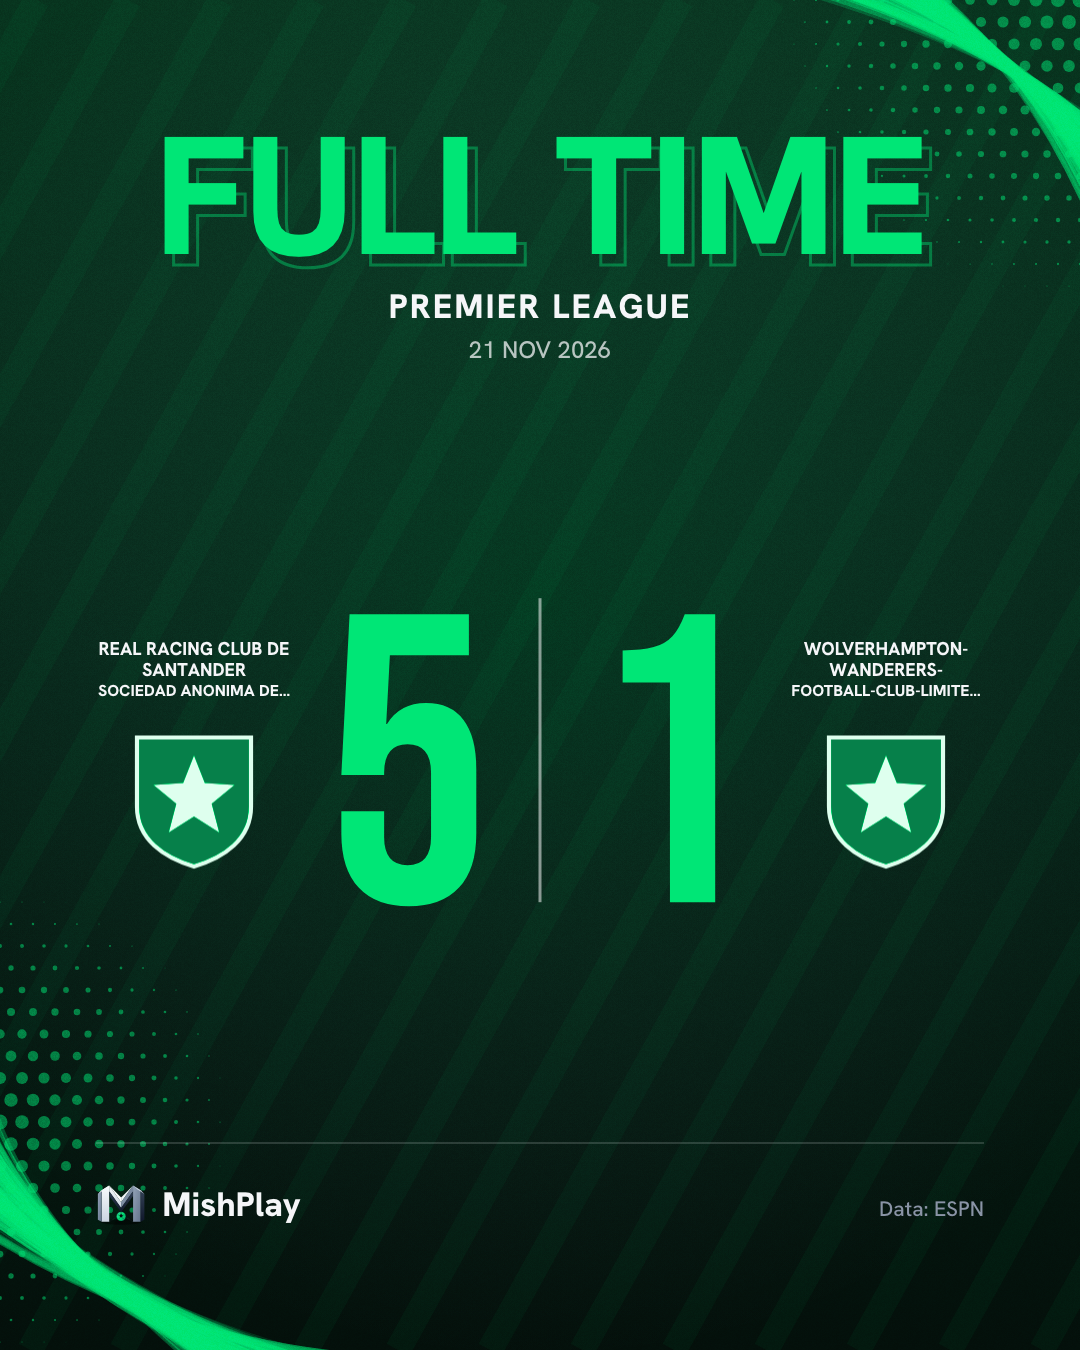
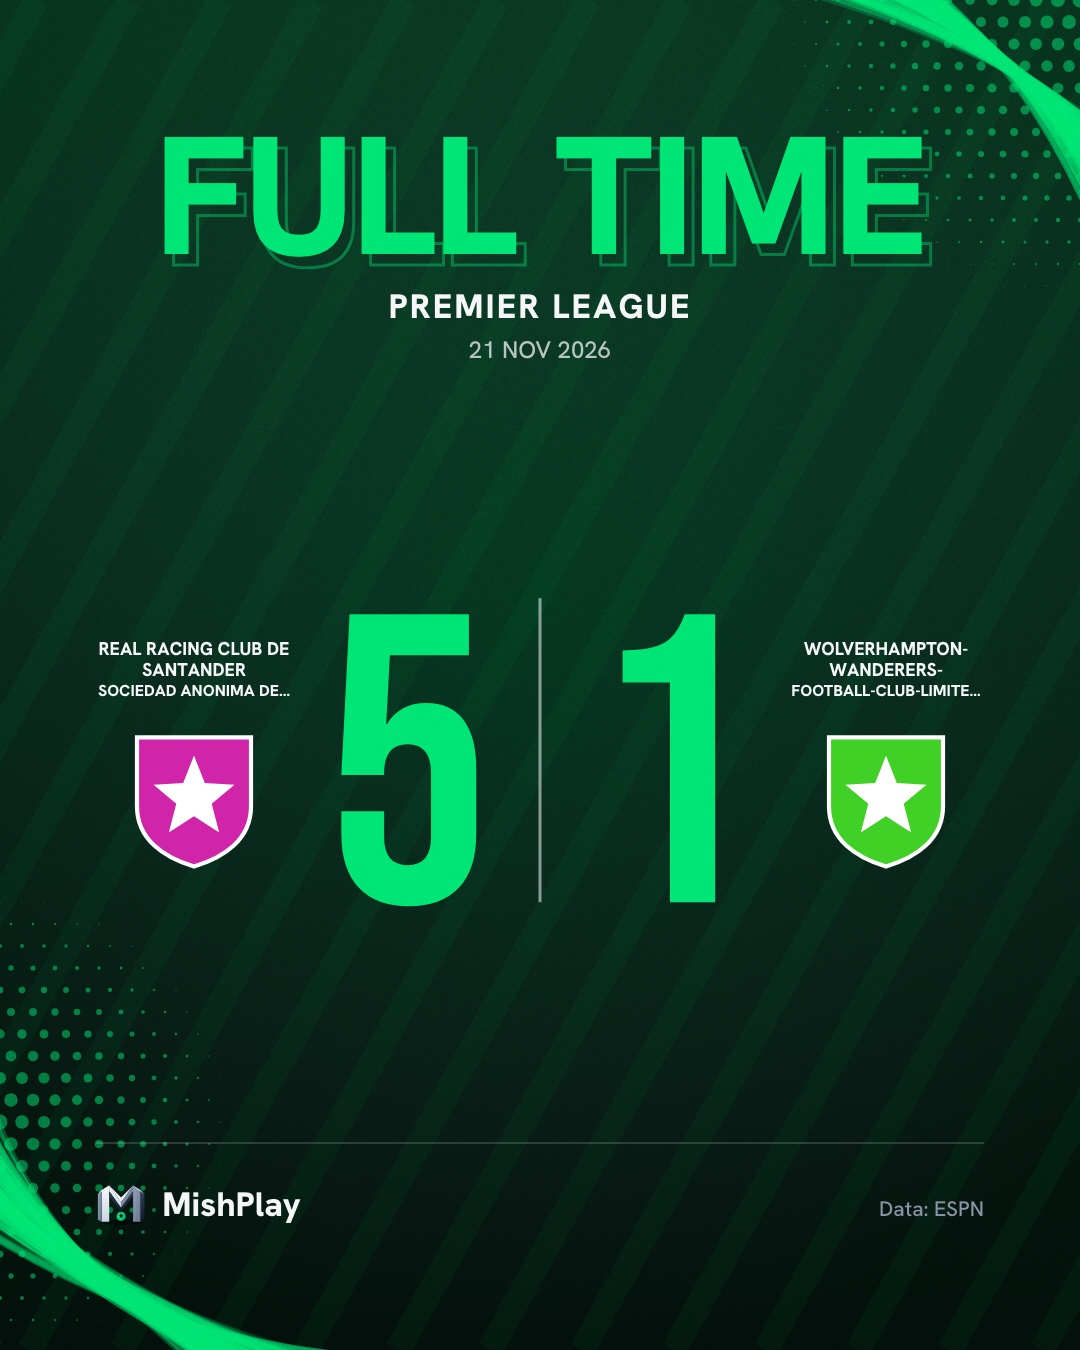
Match poster: keep club crests in their original colours

Changed region(s): [[0.7639, 0.5289, 0.8861, 0.6533], [0.1222, 0.5289, 0.2444, 0.6533]]

diff --git a/src/features/share/draw.ts b/src/features/share/draw.ts
@@ -99,30 +99,13 @@ function deepen(hex: string): string | null {
   const [R, G, B] = h < 60 ? [c, x, 0] : h < 120 ? [x, c, 0] : h < 180 ? [0, c, x] : h < 240 ? [0, x, c] : h < 300 ? [x, 0, c] : [c, 0, x]
   return `rgb(${Math.round((R + m0) * 255)},${Math.round((G + m0) * 255)},${Math.round((B + m0) * 255)})`
 }
-/** A crest recoloured in shades of the app green: each pixel's brightness picks the shade, so inner detail survives; transparency is kept. */
-function monoCrest(im: Loaded, w: number, h: number): CanvasImageSource {
-  const c = document.createElement('canvas'); c.width = Math.max(1, Math.round(w)); c.height = Math.max(1, Math.round(h))
-  const x = c.getContext('2d', { willReadFrequently: true })!; x.imageSmoothingQuality = 'high'; x.drawImage(im.img, 0, 0, c.width, c.height)
-  let px: ImageData
-  try { px = x.getImageData(0, 0, c.width, c.height) } catch { return c }   // unreadable pixels: keep the original colours
-  const p = px.data, lumAt = (i: number) => 0.2126 * p[i] + 0.7152 * p[i + 1] + 0.0722 * p[i + 2]
-  let lo = 255, hi = 0
-  for (let i = 0; i < p.length; i += 4) if (p[i + 3] > 128) { const v = lumAt(i); if (v < lo) lo = v; if (v > hi) hi = v }
-  const stops = [[6, 128, 74], [0, 230, 118], [222, 255, 238]]              // deep green → accent → near-white mint
-  for (let i = 0; i < p.length; i += 4) {
-    const t = hi - lo < 20 ? 0.5 : Math.min(1, Math.max(0, (lumAt(i) - lo) / (hi - lo)))
-    const s = t < 0.5 ? 0 : 1, k = t * 2 - s
-    for (let j = 0; j < 3; j++) p[i + j] = stops[s][j] + (stops[s + 1][j] - stops[s][j]) * k
-  }
-  x.putImageData(px, 0, 0); return c
-}
-function crest(ctx: CanvasRenderingContext2D, im: Loaded | null, name: string, cx: number, cy: number, size: number, alpha = 1, mono = false) {
+function crest(ctx: CanvasRenderingContext2D, im: Loaded | null, name: string, cx: number, cy: number, size: number, alpha = 1) {
   const d = dbg(); if (d) (d.meta.crests as string[] | undefined)?.push(im ? im.source : 'fallback')
   ctx.save(); ctx.globalAlpha = alpha
-  if (im) { const k = Math.min(size / im.w, size / im.h), w = im.w * k, h = im.h * k; ctx.drawImage(mono ? monoCrest(im, w, h) : im.img, cx - w / 2, cy - h / 2, w, h) }
+  if (im) { const k = Math.min(size / im.w, size / im.h), w = im.w * k, h = im.h * k; ctx.drawImage(im.img, cx - w / 2, cy - h / 2, w, h) }
   else { // intentional fallback: a quiet ring with initials, same footprint as a crest
-    ctx.strokeStyle = mono ? COLOR.accent : COLOR.ink; ctx.lineWidth = HAIR * 2; ctx.beginPath(); ctx.arc(cx, cy, size / 2 - 2, 0, Math.PI * 2); ctx.stroke()
-    text(ctx, initials(name), cx, cy + size * 0.13, { size: size * 0.36, weight: WEIGHT.display, align: 'center', color: mono ? COLOR.accent : COLOR.ink })
+    ctx.strokeStyle = COLOR.ink; ctx.lineWidth = HAIR * 2; ctx.beginPath(); ctx.arc(cx, cy, size / 2 - 2, 0, Math.PI * 2); ctx.stroke()
+    text(ctx, initials(name), cx, cy + size * 0.13, { size: size * 0.36, weight: WEIGHT.display, align: 'center' })
   }
   ctx.restore()
 }
@@ -348,7 +331,7 @@ function matchPoster(ctx: CanvasRenderingContext2D, l: L, inp: RenderInput, with
     const nm = wrap(ctx, nameOf(t).toUpperCase(), TEAM_COL, 32, WEIGHT.display, 3, 18), nlh = nm.size * 1.12
     const ty = top + (capH - (nm.lines.length * nlh + SPACE.s3 + cs)) / 2
     nm.lines.forEach((ln, k) => text(ctx, ln, colX, ty + nm.size * 0.8 + k * nlh, { size: nm.size, weight: WEIGHT.display, align: 'center', maxW: TEAM_COL, min: 16 }))
-    crest(ctx, home ? inp.imgs.home : inp.imgs.away, t.name, colX, ty + nm.lines.length * nlh + SPACE.s3 + cs / 2, cs, 1, true)
+    crest(ctx, home ? inp.imgs.home : inp.imgs.away, t.name, colX, ty + nm.lines.length * nlh + SPACE.s3 + cs / 2, cs)
     const a = home ? l.x0 + TEAM_COL + 8 : l.cx + SPLIT, b = home ? l.cx - SPLIT : l.x1 - TEAM_COL - 8
     numeral(ctx, String(scoreOf(inp, sd)), (a + b) / 2, top + capH, nSize, b - a, COLOR.accent)
   })

diff --git a/README.md b/README.md
@@ -66,7 +66,7 @@ Match and player screens have a **Share** button that opens a poster editor: cho
 - Design system, tokens and per-template specs: `design/share-posters/` (derived from a Stitch exploration; see the limitation noted there). Code: `src/features/share/` (`tokens.ts`, `draw.ts`, `model.ts`, `images.ts`).
 - **Layout:** 1080×1920 vertical (plus 1080×1350), Instagram-safe areas, match posters are a big status headline over [crest, numeral | numeral, crest] in MishPlay emerald with drawn halftone and brush art, scorers under each side (`+N more` instead of tiny text), penalty shoot-out score only when there was one, player spotlight with a framed portrait over its blurred copy, or a typography-led layout (crest, shirt number, name) when there is no usable photo.
 - **Images, licence-gated** (`src/features/share/portrait.ts`, `research/images/LICENSING_APPROACH.md`): backgrounds are MishPlay's own drawn atmosphere by default, or an optional bundled CC0 stadium photo (blurred, credited). Player portraits come only from Wikimedia Commons, matched by the provider's exact player id via Wikidata P3681, and only if Commons says CC0 / public domain / CC BY (credited) or CC BY-SA (off until the user opts in; the poster then says "licensed CC BY-SA 4.0"). Missing/unclear/NC/ND licence = no photo. Provider (ESPN) photos are never used in posters. Club crests come from the provider and belong to their clubs (shown for identification; monogram fallback).
-- Match-poster club crests are recoloured in shades of the app green; score numerals use Bebas Neue (OFL).
+- Club crests are drawn in their original colours; score numerals use Bebas Neue (OFL).
 - Typefaces (Hanken Grotesk, Bebas Neue) are bundled; posters are generated offline from cached data.
 - Tests pin the browser clock to the recorded fixture date (`tests/e2e/mocks.ts`), so they don't depend on the day they run.
 
